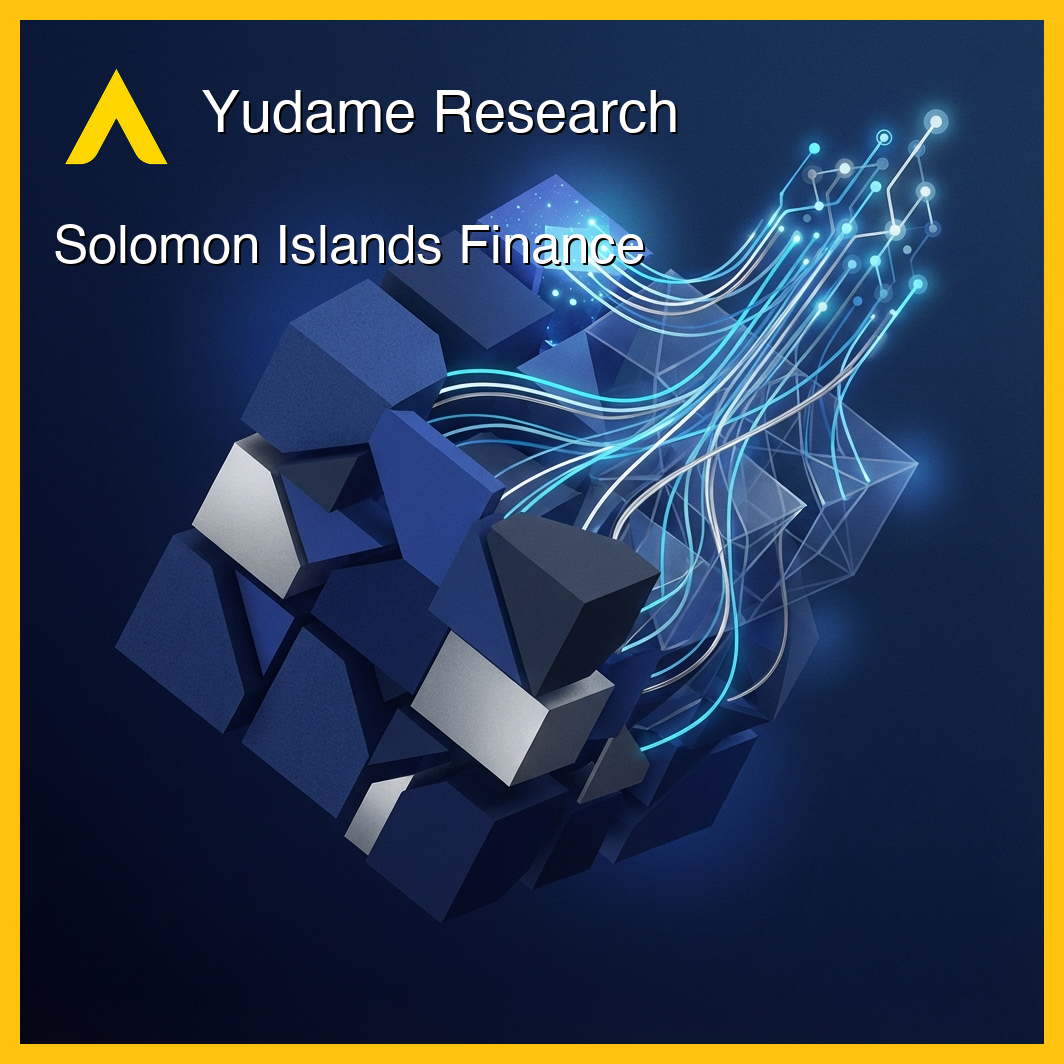
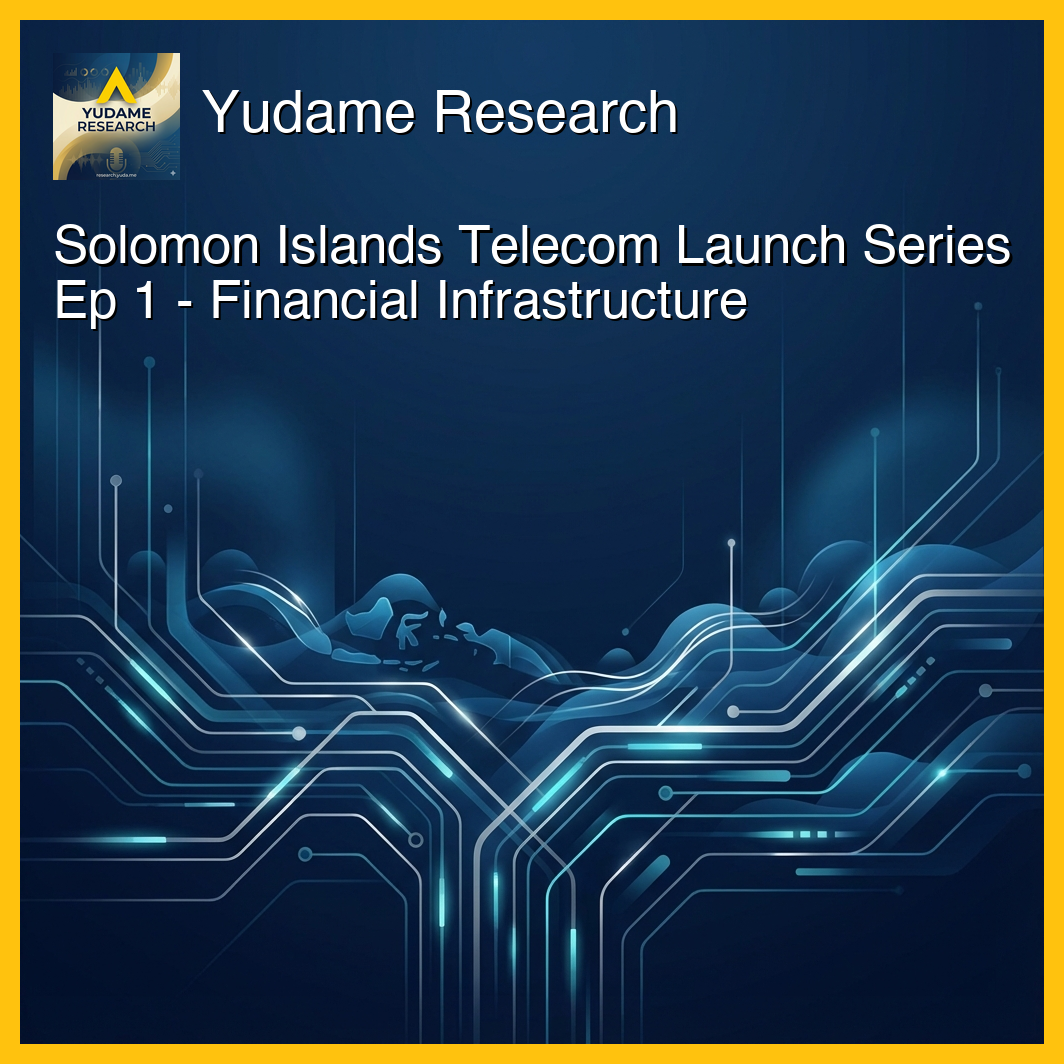
fix: Standardize series name across all episode cover art
- Regenerate Episode 1 cover art with correct series name "Solomon Islands Telecom Launch Series"
- Regenerate Episode 2 cover art with correct series name "Solomon Islands Telecom Launch Series"
- Update prompts.md in both episodes to document the regeneration and branding fix
- All three episodes now consistently display "Solomon Islands Telecom Launch Series" on cover art
- Maintains consistent branding across the series matching feed.xml metadata

diff --git a/podcast/episodes/solomon-islands-telecom-series/episode-1-financial-infrastructure/prompts.md b/podcast/episodes/solomon-islands-telecom-series/episode-1-financial-infrastructure/prompts.md
@@ -255,3 +255,65 @@ IMPORTANT:
 **Output:** cover.png
 
 **Date:** 2025-11-28
+
+
+## Cover Art Generation
+
+**Tool Used:** OpenRouter - google/gemini-3-pro-image-preview
+
+**Original Prompt:**
+```
+Modern podcast episode cover art for "Episode 1 Financial Infrastructure":
+
+Style: Clean, professional, abstract visualization
+Layout: Bold visual elements suitable for square format
+Color palette: Deep navy blues and dark blues as the dominant theme throughout
+Concept: The Solomon Islands presents one of the most dramatic financial inclusion stories unfolding in the Pacific today. In a nation where **80% of all transactions are conducted in cash** and only **25% of 
+
+Design as square format (1024x1024px) with space for text overlay.
+Professional, minimalist aesthetic suitable for Apple Podcasts.
+No text in the image - pure visual design.
+```
+
+**Enhanced Prompt:**
+```
+Modern podcast episode cover art for "Episode 1 Financial Infrastructure":
+
+Style: Clean, professional, abstract visualization
+Layout: Bold visual elements suitable for square format
+Color palette: Deep navy blues and dark blues as the dominant theme throughout
+Concept: The Solomon Islands presents one of the most dramatic financial inclusion stories unfolding in the Pacific today. In a nation where **80% of all transactions are conducted in cash** and only **25% of 
+
+Design as square format (1024x1024px) with space for text overlay.
+Professional, minimalist aesthetic suitable for Apple Podcasts.
+No text in the image - pure visual design.
+
+IMPORTANT VISUAL REQUIREMENTS:
+- The ENTIRE canvas from edge to edge must be deep navy blue and dark blue tones - no borders, frames, or light backgrounds
+- Dark blue fills the complete image area - not just a section or inner frame
+- Use bright teal, white, and silver only as accent colors on top of the dark blue theme
+- Pure abstract visualization only
+- Absolutely no text, no numbers, no labels, no annotations, no icons, no logos, no symbols, no letterforms of any kind
+- Clean visual design without any typography or graphic elements
+
+COMPOSITION:
+- Visual interest and detail should be concentrated in the LOWER 2/3 of the image
+- Keep the TOP 1/3 relatively simple and uncluttered for text overlay placement
+- Main graphic elements should flow from center to bottom
+- Avoid placing busy patterns or focal points in the upper third
+```
+
+**Aspect Ratio:** 1:1
+
+**Output:** cover.png
+
+**Date:** 2025-12-08
+
+**Branding Applied:**
+- Position: top-left
+- Brand: Yudame Research
+- Series: Solomon Islands Telecom Launch Series
+- Episode: Ep 1 - Financial Infrastructure
+- Border: 20px, #FFC20E
+
+**Reason for Regeneration:** Updated series name from previous variations to "Solomon Islands Telecom Launch Series" for consistency across all episodes in the series.

diff --git a/podcast/episodes/solomon-islands-telecom-series/episode-2-breaking-duopoly/prompts.md b/podcast/episodes/solomon-islands-telecom-series/episode-2-breaking-duopoly/prompts.md
@@ -267,8 +267,62 @@ mv temp.mp3 episode-2-breaking-duopoly.mp3
 **Branding Applied:**
 - Position: top-left
 - Brand: Yudame Research
-- Series: Solomon Islands Telecom Series
+- Series: Solomon Islands Telecom Launch Series
 - Episode: Ep 2 - Breaking the Duopoly
 - Border: 20px, #FFC20E
+
+**Date:** 2025-12-08
+**Regenerated:** 2025-12-08 (corrected series name from "Solomon Islands Telecom Series" to "Solomon Islands Telecom Launch Series")
+
+
+## Cover Art Generation
+
+**Tool Used:** OpenRouter - google/gemini-3-pro-image-preview
+
+**Original Prompt:**
+```
+Modern podcast episode cover art for "Episode 2 Breaking Duopoly":
+
+Style: Clean, professional, abstract visualization
+Layout: Bold visual elements suitable for square format
+Color palette: Deep navy blues and dark blues as the dominant theme throughout
+Concept: The Solomon Islands presents a compelling market disruption opportunity for a third mobile operator entering an entrenched duopoly. Our Telekom (60% market share, government-controlled via 97% SINPF o
+
+Design as square format (1024x1024px) with space for text overlay.
+Professional, minimalist aesthetic suitable for Apple Podcasts.
+No text in the image - pure visual design.
+```
+
+**Enhanced Prompt:**
+```
+Modern podcast episode cover art for "Episode 2 Breaking Duopoly":
+
+Style: Clean, professional, abstract visualization
+Layout: Bold visual elements suitable for square format
+Color palette: Deep navy blues and dark blues as the dominant theme throughout
+Concept: The Solomon Islands presents a compelling market disruption opportunity for a third mobile operator entering an entrenched duopoly. Our Telekom (60% market share, government-controlled via 97% SINPF o
+
+Design as square format (1024x1024px) with space for text overlay.
+Professional, minimalist aesthetic suitable for Apple Podcasts.
+No text in the image - pure visual design.
+
+IMPORTANT VISUAL REQUIREMENTS:
+- The ENTIRE canvas from edge to edge must be deep navy blue and dark blue tones - no borders, frames, or light backgrounds
+- Dark blue fills the complete image area - not just a section or inner frame
+- Use bright teal, white, and silver only as accent colors on top of the dark blue theme
+- Pure abstract visualization only
+- Absolutely no text, no numbers, no labels, no annotations, no icons, no logos, no symbols, no letterforms of any kind
+- Clean visual design without any typography or graphic elements
+
+COMPOSITION:
+- Visual interest and detail should be concentrated in the LOWER 2/3 of the image
+- Keep the TOP 1/3 relatively simple and uncluttered for text overlay placement
+- Main graphic elements should flow from center to bottom
+- Avoid placing busy patterns or focal points in the upper third
+```
+
+**Aspect Ratio:** 1:1
+
+**Output:** cover.png
 
 **Date:** 2025-12-08
